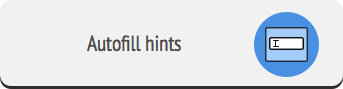
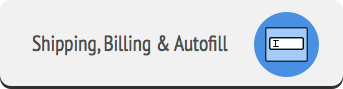
image updates

Changed region(s): [[0.0875, 0.382, 0.6706, 0.6292]]

diff --git a/Example/Tests/AcceptOnAPIKeys.swift b/Example/Tests/AcceptOnAPIKeys.swift
@@ -17,7 +17,7 @@ struct AcceptOnAPIKeyInfo {
 }
 
 let keys = [
-    AcceptOnAPIKeyInfo(key: "pkey_24b6fa78e2bf234d", properties: [.PaypalRest, .Stripe, .PublicKey], paypalRestClientSecret: nil)
+    AcceptOnAPIKeyInfo(key: "pkey_24b6fa78e2bf234d", properties: [.PaypalRest, .Stripe, .PublicKey], paypalRestClientSecret: nil
 ]
 
 //Get a key with a set of properties

diff --git a/docs/configure/add_custom_information.md b/docs/configure/add_custom_information.md
@@ -1,6 +1,7 @@
 #Add custom information
-In the above example, under [Use It!](#use-it), an optional setting called `userInfo` is left blank. This is where you may set auto-fill hints and require
-that certain information, like shipping information, be requested.  The available options are demo'd in this example.
+In both the storyboard and pure-code only examples, the `AcceptOnViewController` was configured
+and had an optional `userInfo` parameter. This parameter can be configured with additional
+information to pass along with the transaction.
 
 ```swift
 //--------------------------------------------------------------------------------
@@ -9,42 +10,9 @@ that certain information, like shipping information, be requested.  The availabl
 var userInfo = AcceptOnUIMachineOptionalUserInfo()
 
 //--------------------------------------------------------------------------------
-//Autofill the user's email address
+//Attach some additional information
 //--------------------------------------------------------------------------------
-userInfo.emailAutofillHint = "jessica@yahoo.com"
-
-//--------------------------------------------------------------------------------
-//Collect, and require, billing address information
-//--------------------------------------------------------------------------------
-userInfo.requestsAndRequiresBillingAddress = true
-
-//The billing address to auto-fill the user's fields with. These
-//are still modifiable by the user, and if you do not provide them,
-//the user will have to enter these manually
-userInfo.billingAddressAutofillHints.line_1 = "123 Dale Mabry Dr."
-//userInfo.billingAddressAutofillHints.line_2 = "Optional Second Line"
-userInfo.billingAddressAutofillHints.city = "Tampa"
-userInfo.billingAddressAutofillHints.region = "Florida"  //State/Province
-userInfo.billingAddressAutofillHints.postal_code = "12345"
-userInfo.billingAddressAutofillHints.country = "US"
-
-//--------------------------------------------------------------------------------
-//Collect, and require, shipping information. For payment systems that require
-//that shipping costs be provided, such as apple-pay, we automatically
-//set these as "Shipping Included" and set the shipping fee to `$0` on 
-//any necessary shipping information fields.
-//--------------------------------------------------------------------------------
-userInfo.requestsAndRequiresShippingAddress = true
-
-//The shipping address to auto-fill the user's fields with. These
-//are still modifiable by the user, and if you do not provide them,
-//the user will have to enter these manually
-userInfo.shippingAddressAutofillHints.line_1 = "123 Dale Mabry Dr."
-//userInfo.shippingAddressAutofillHints.line_2 = "Optional second Line"
-userInfo.shippingAddressAutofillHints.city = "Tampa"
-userInfo.shippingAddressAutofillHints.region = "Florida"  //State/Province
-userInfo.shippingAddressAutofillHints.postal_code = "12345"
-userInfo.shippingAddressAutofillHints.country = "US"
+userInfo.extraMetadata["my_internal_identifier"] = "foo-xxxxxx"
 
 //--------------------------------------------------------------------------------
 //Set our options in our view controller before we present it
@@ -52,29 +20,9 @@ userInfo.shippingAddressAutofillHints.country = "US"
 avc.userInfo = userInfo
 ```
 
-> ☃ If you require both shipping & billing address information, by default, the option "Shipping Address Same" will be checkmarked so the user will not have to type additional information in.
-
-If you set the shipping and billing information to required via the requisite flags, this information
-will appear in your accepton-on meta-data as:
+If you set the extra metadata, this information will appear in your accepton-on meta-data as:
 ```javascript
 {
-  billing_address: {
-    line_1: '',
-    line_2: '',
-    city: '',
-    region: '',
-    postal_code: '',
-    country: ''
-  },
-  shipping_address_same: true,
-  shipping_address: {
-    line_1: '',
-    line_2: '',
-    city: '',
-    region: '',
-    postal_code: '',
-    country: ''
-  }
+  my_internal_identifier: "foo-xxxxx"
 }
 ```
-

diff --git a/docs/use/use_with_only_code.md b/docs/use/use_with_only_code.md
@@ -1,1 +1,70 @@
 #Use with only code
+
+Here is an example ViewController that contains a button that activates the accepton payment:
+
+```swift
+import UIKit
+import accepton
+
+class ViewController: UIViewController, AcceptOnViewControllerDelegate {
+    override func viewDidLoad() {
+        super.viewDidLoad()
+        
+        let button = UIButton()
+        button.addTarget(self, action: "click", forControlEvents: .TouchUpInside)
+        button.frame = CGRectMake(0, 0, 100, 100)
+        button.backgroundColor = UIColor.greenColor()
+        self.view.addSubview(button)
+    }
+    
+    func click() {
+        let avc = AcceptOnViewController()
+        avc.delegate = self
+        
+        //Name of the item you are selling
+        avc.itemDescription = "My Item Description"
+        
+        //The cost in cents of the item
+        avc.amountInCents = 100
+        
+        //The accessToken
+        avc.accessToken = "pkey_24b6fa78e2bf234d"
+        
+        //If you're using this in production
+        //avc.isProduction = true
+        
+        //--------------------------------------------------------------------
+        //Optionally, collect billing & shipping, provide auto-fill hints
+        //and pass on custom information
+        //--------------------------------------------------------------------
+        //var userInfo = AcceptOnUIMachineOptionalUserInfo()
+        //
+        //See the configure section of the README
+        //
+        //avc.userInfo = userInfo
+        
+        avc.modalPresentationStyle = .OverCurrentContext
+        self.presentViewController(avc, animated: true, completion: nil)
+    }
+
+    //User hit the close button, no payment was completed
+    func acceptOnCancelWasClicked(vc: AcceptOnViewController) {
+        //Hide the accept-on UI
+        vc.dismissViewControllerAnimated(true) {
+        }
+    }
+    
+    //Payment did succeed, show a confirmation message
+    func acceptOnPaymentDidSucceed(vc: AcceptOnViewController, withChargeInfo chargeInfo: [String:AnyObject]) {
+        //Save this for refunding later, analytics, etc. if you wish
+        let chargeId = chargeInfo["id"] as! String
+        
+        //Dismiss the modal that we showed in the storyboard
+        vc.dismissViewControllerAnimated(true) {
+        }
+        
+        UIAlertView(title: "Hurray!", message: "Your widget was shipped", delegate: nil, cancelButtonTitle: "Ok").show()
+    }
+    
+}
+```

diff --git a/docs/use/use_with_storyboard.md b/docs/use/use_with_storyboard.md
@@ -1,6 +1,6 @@
 #Use with storyboard
 
-After choosing one of the above methods to install the Accepton iOS framework, do the following on your storyboard:
+Do the following on your storyboard:
 
   1. Add a new view controller at the point where you want to collect a payment
   2. Add a `Present Modally` segue to the new view controller
@@ -40,19 +40,19 @@ class ViewController : UIViewController, AcceptOnViewControllerDelegate {
             //The accessToken
             avc.accessToken = "pkey_xxxxxxxxxxxxxxx"
 
-            //Optionally, provide hints to auto-suggest form information
-            //and require certain fields to be filled such as shipping
-            //and billing information.
-            //var userInfo = AcceptOnUIMachineOptionalUserInfo()
-            //----See below under userInfo for options----
-            //avc.userInfo = userInfo
-
-            //Optionally, collect shipping information.
-            avc.collectShippingInformation = false
-
             //If you're using this in production
             //avc.isProduction = true
-        }
+
+            //--------------------------------------------------------------------
+            //Optionally, collect billing & shipping, provide auto-fill hints
+            //and pass on custom information
+            //--------------------------------------------------------------------
+            //var userInfo = AcceptOnUIMachineOptionalUserInfo()
+            //
+            //See the configure section of the README
+            //
+            //avc.userInfo = userInfo
+            }
     }
     
     //User hit the close button, no payment was completed
@@ -75,4 +75,3 @@ class ViewController : UIViewController, AcceptOnViewControllerDelegate {
     }
 }
 ```
-

diff --git a/docs/install/carthage.md b/docs/install/carthage.md
@@ -1,7 +1,7 @@
 #Install via Carthage
 > This tutorial assumes you already have install carthage installed.  If you haven't already installed carthage, [Install It From Here](https://github.com/Carthage/Carthage#installing-carthage).
 
-## Step 1
+## 1) Cartfile
 Create a new `Cartfile` in your *project folder*. Place the following into it:
 
 ```
@@ -10,15 +10,15 @@ github "accepton/accepton-apple" ~> 0.5
 
 ![Cartfile](../images/cartfile.png)
 
-## Step 2
+## 2) Build
 Run `carthage update` in the root of your *project folder*.
 
-## Step 3
+## 3) Link
 Take the newly created `./Carthage/Build/$PLATFORM/accepton.framework` in your project folder and place it in your XCode project's `Linked Frameworks and Libraries` section **without** making a copy.
 
 ![Cartfile](../images/carthage_link.gif)
 
-## Step 4
+## 4) Build Phase Script
 On your application targets’ “Build Phases” settings tab, click the “+” icon and choose “New Run Script Phase”. Create a Run Script with the following contents:
 
 ```
@@ -34,4 +34,4 @@ $(SRCROOT)/Carthage/Build/iOS/accepton.framework
 ![Carthage Run Script](../images/carthage_run_script.gif)
 
 ## You're ready to use it!
-Continue on to [Use it](../../#2-use-it-via-storyboard-or-pure-code)
+Continue on to [Part 2 of the README](../../README.md)

diff --git a/docs/install/cocoapods.md b/docs/install/cocoapods.md
@@ -7,8 +7,9 @@ with:
 $ gem install cocoapods
 ```
 
-> Make sure you have version 0.39.0 or higher. Run `pod --version` if you're unsure. You may update cocoapods by running `gem install cocoapods`.
+> ☃ Make sure you have version 0.39.0 or higher. Run `pod --version` if you're unsure. You may update cocoapods by running `gem install cocoapods`.
 
+## 1) Podfile
 Once you have installed *CocoaPods*, add a `Podfile` to the root of your XCode project folder and put the following code into your newly created `Podfile`:
 
 ```ruby
@@ -19,6 +20,17 @@ use_frameworks!
 pod 'accepton', '~> 0.5'
 ```
 
+![Podfile](../images/podfile.png)
+
+## 2) Build
 After you modify the `Podfile`, run `pod install` in the same directory as your modified `Podfile`.
 
-Continue on to [Step 2](../../README.md)
+## 3) Open Workspace
+Close down your *XCode project* that you had open and open the newly created *XCode workspace*. 
+
+> ☃ Failure to do this will result in module import errors
+
+![Workspace](../images/cocoapods_workspace.png)
+
+## You're ready to use it!
+Continue on to [Part 2 of the README](../../README.md)

diff --git a/docs/configure/billing_shipping_autofill_hints.md b/docs/configure/billing_shipping_autofill_hints.md
@@ -1,6 +1,8 @@
-#Autofill hints
-In the above example, under [Use It!](#use-it), an optional setting called `userInfo` is left blank. This is where you may set auto-fill hints and require
-that certain information, like shipping information, be requested.  The available options are demo'd in this example.
+#Shipping, billing and Autofill hints
+In both the storyboard and pure-code only examples, the `AcceptOnViewController` was configured
+and had an optional `userInfo` parameter. This parameter can be configured with a set of
+auto-fill hints that will automatically fill out fields when applicable and can configure
+whether or not billing & shipping should be collected.
 
 ```swift
 //--------------------------------------------------------------------------------
@@ -77,5 +79,3 @@ will appear in your accepton-on meta-data as:
   }
 }
 ```
-
-

diff --git a/README.md b/README.md
@@ -43,7 +43,7 @@
 </a>
 
 ## 3. Configure it [Optional]
-<a href='./docs/configure/autofill_hints.md'>
+<a href='./docs/configure/billing_shipping_autofill_hints.md'>
 <div style='text-align: center'>
   <img src='./docs/images/autofill_hints.png' />
 </div>

diff --git a/docs/install/binary.md b/docs/install/binary.md
@@ -53,3 +53,5 @@ done
   <img src='../images/run_script.gif' width="900" />
 </div>
 
+## You're ready to use it!
+Continue on to [Part 2 of the README](../../README.md)
